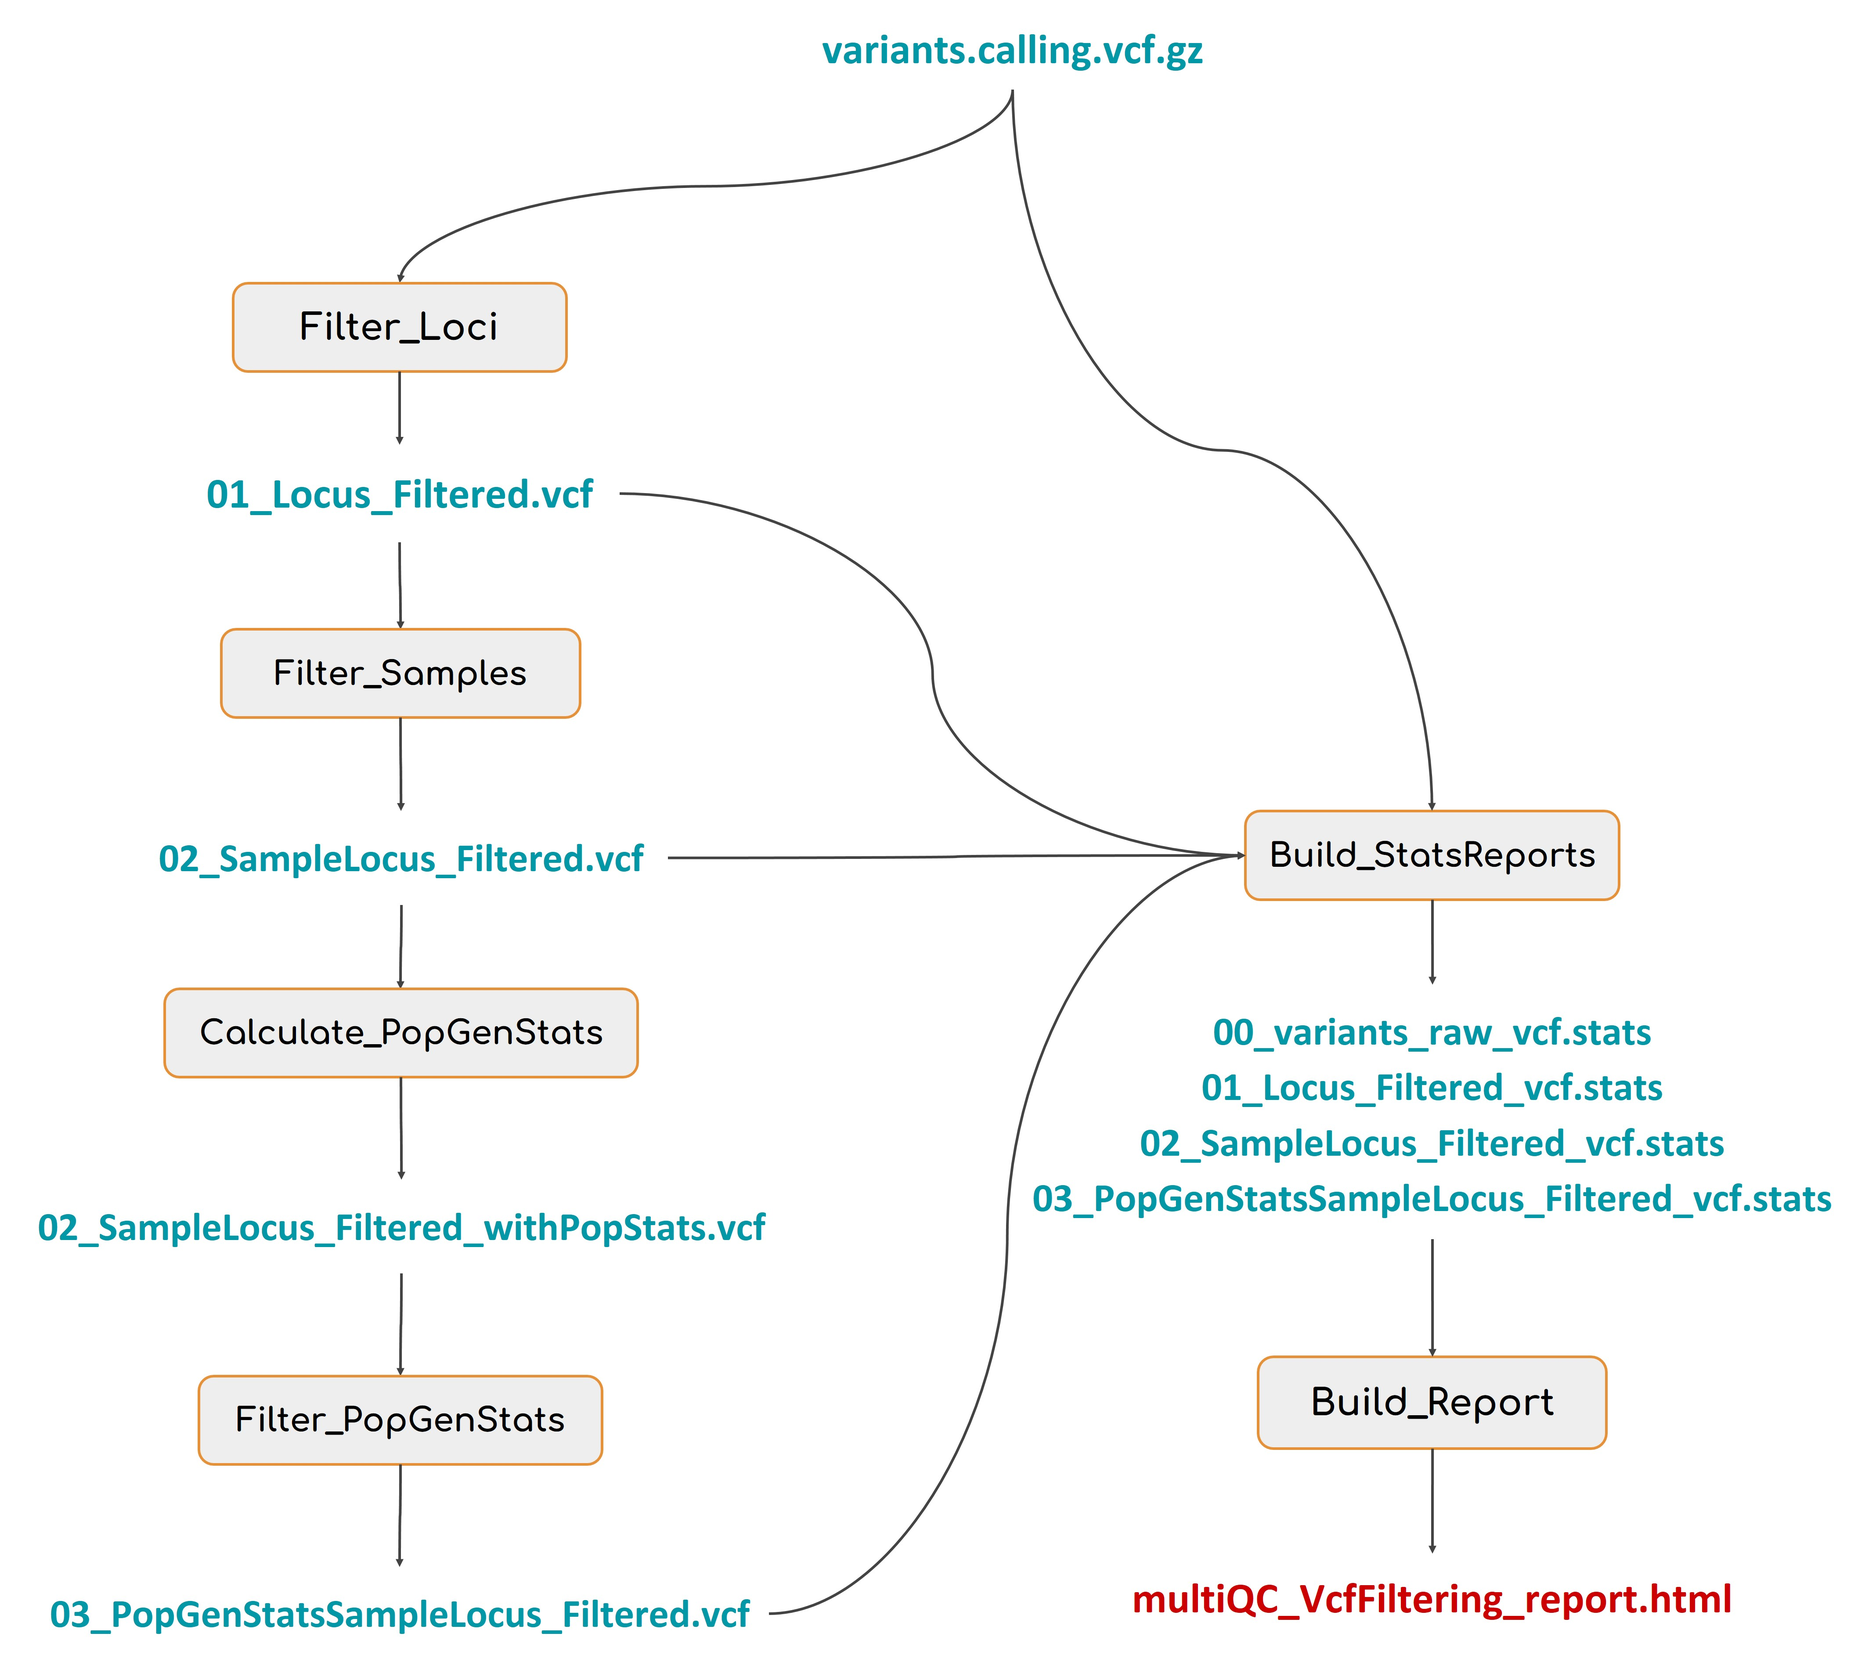
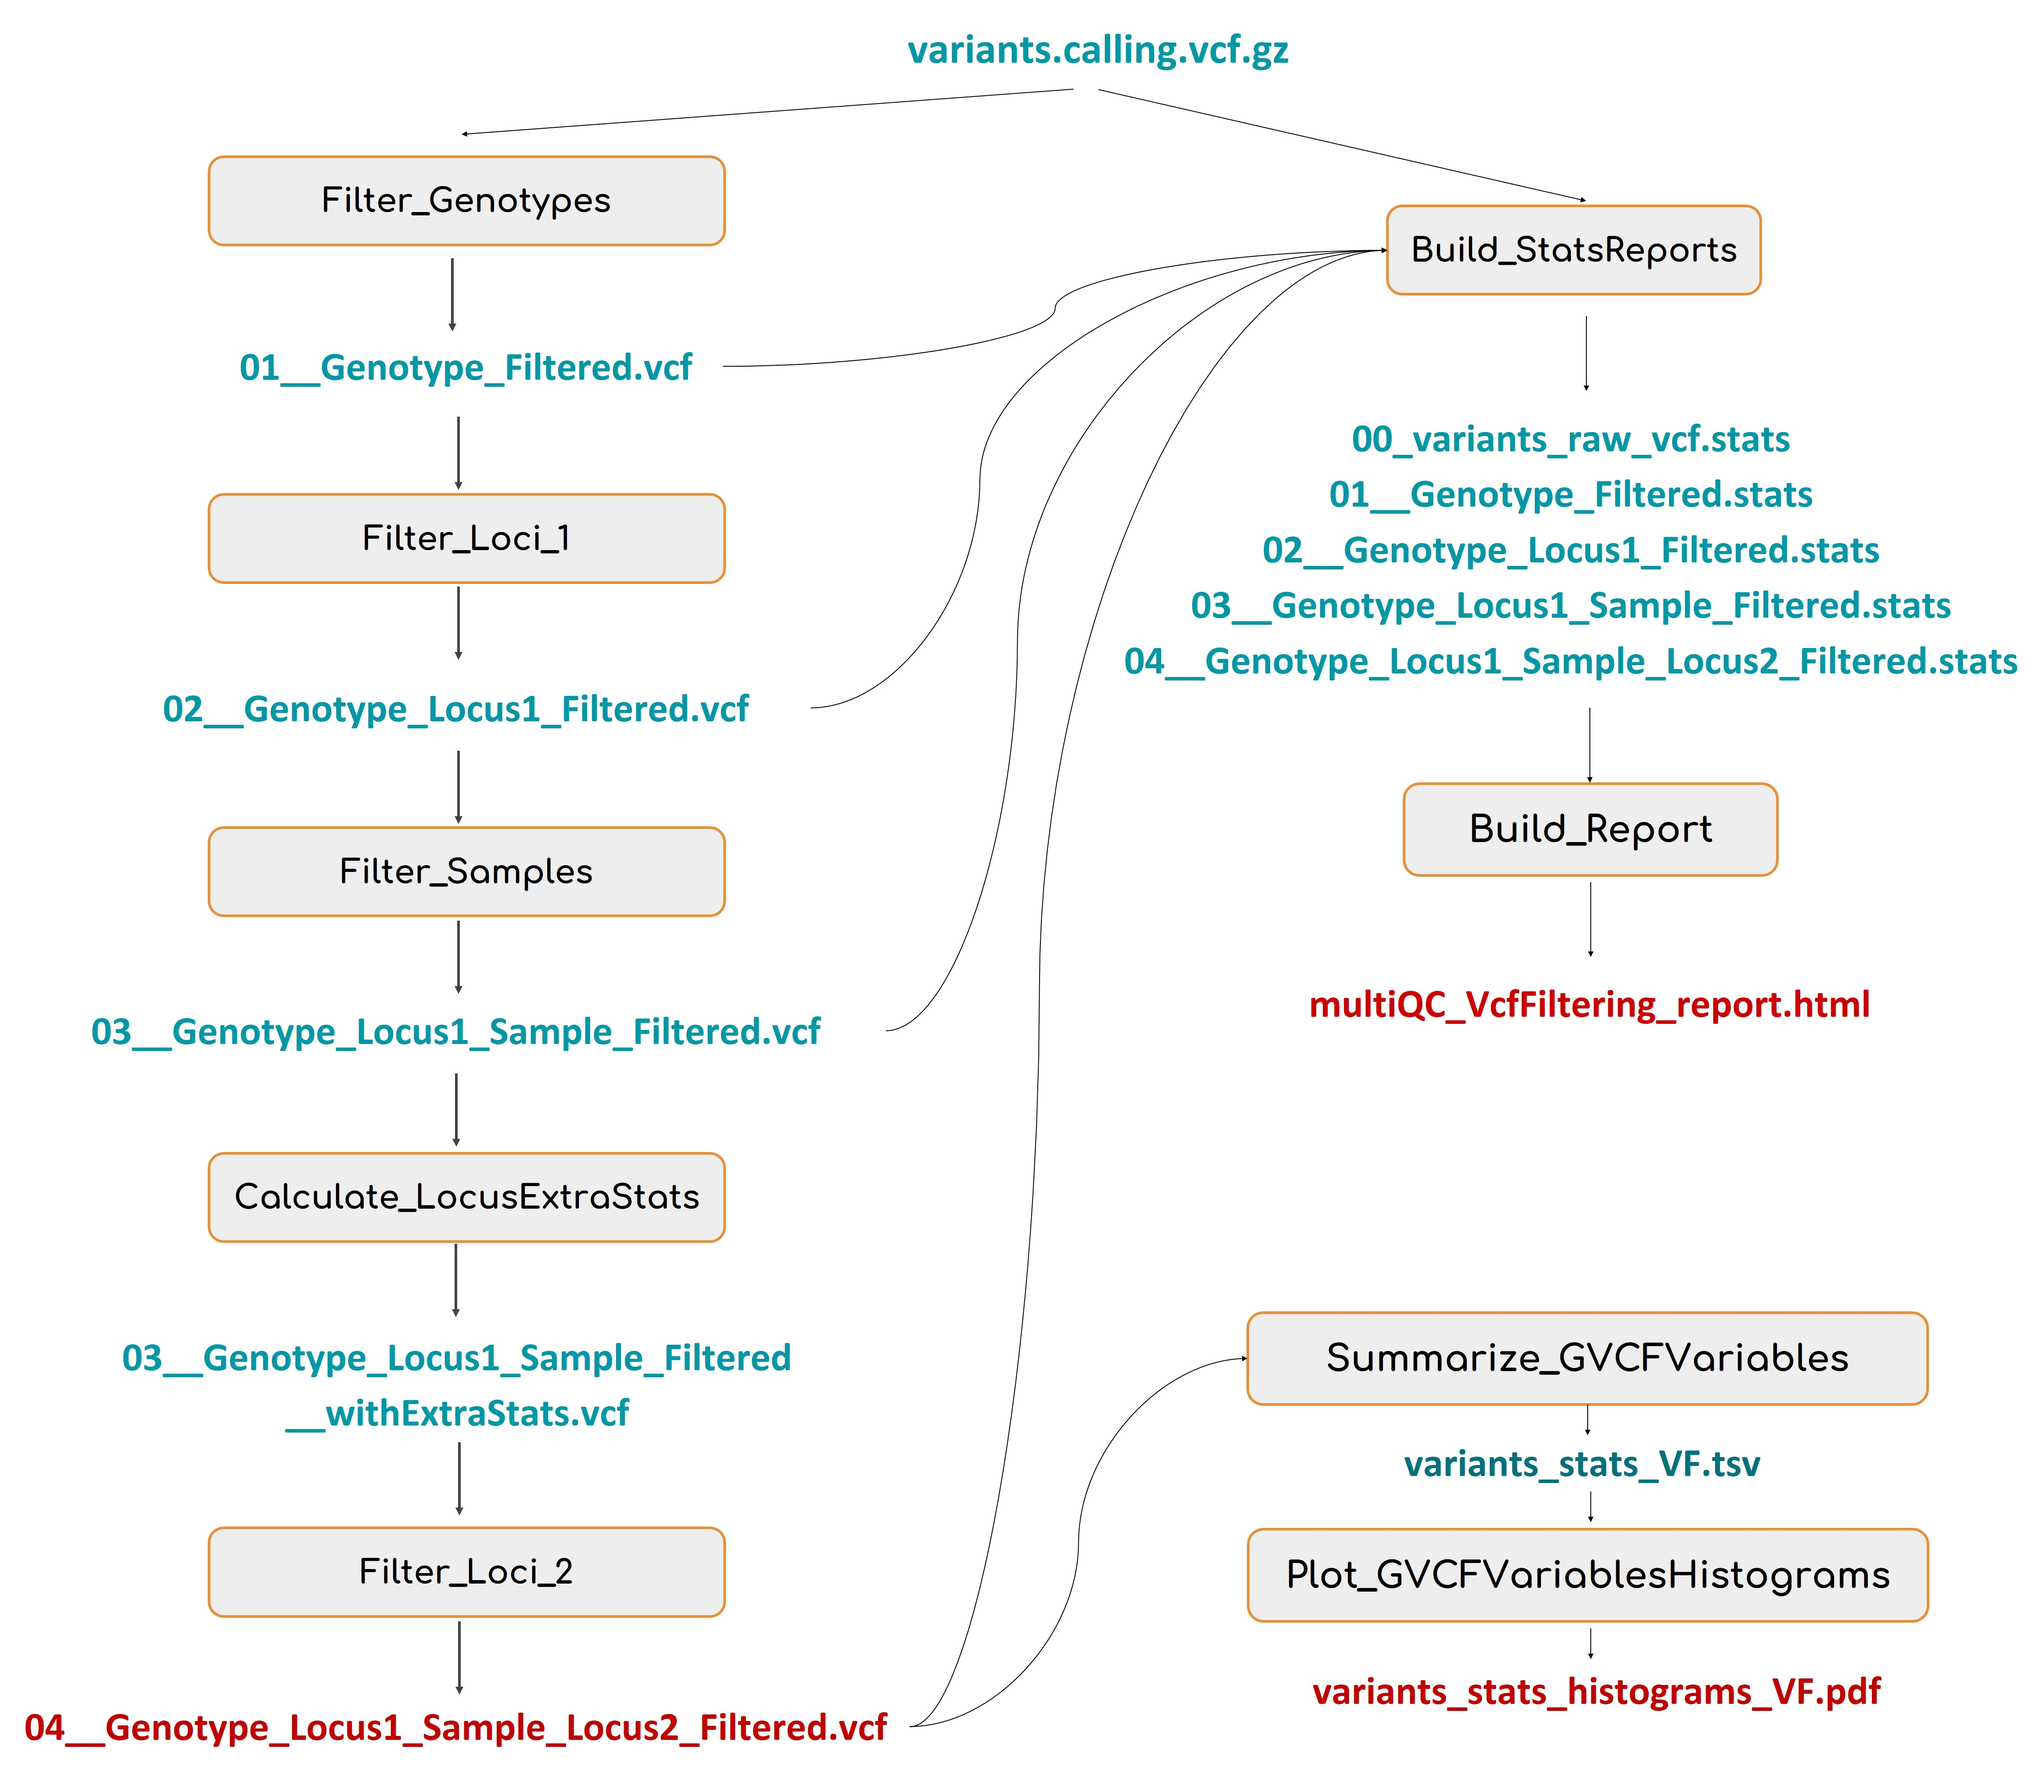
update readme VF

diff --git a/VCF_FILTERING/README.md b/VCF_FILTERING/README.md
@@ -4,12 +4,13 @@ This VCF_FILTERING workflow allows to filter the raw VCF file obtained after the
 
 
 ### The VCF_FILTERING workflow's steps
-1) The first filter applies to **genotypes**. What we call ‘genotype’ here is the single-locus genotype assigned to a sample at a given position. Genotypes that don't pass the given thresholds (e.g. FMT/GQ>=15; FMT/DP>=5) are replaced by missing data. Loci that have become monomorphic or fully ungenotyped as a result of this first step are eliminated.
+1) The first filter applies to **genotypes** (Loci x Sample). What we call ‘genotype’ here is the single-locus genotype assigned to a sample at a given position. Genotypes that don't pass the given thresholds (e.g. FMT/GQ>=15; FMT/DP>=5) are replaced by missing data. Loci that have become monomorphic or fully ungenotyped as a result of this first step are eliminated.
 2) Next, **loci** that do not pass the given thresholds (QUAL>=30; F_MISSING<=0.5) are removed. At this step, all site level statistics that are provided in GATK VCF outputs can be used to filter out unwanted loci.
 3) You can now decide to remove poorly covered **samples** if their proportion of ungenotyped loci is above a given threshold. 
 4) Additional site level statistics are then computed: general information (SNP or INDEL, number of alleles, MAF…) and population genetics statistics (Fis, He) are added to the VCF ‘INFO’ field for each variant.
 5) The statistics from step 4. (along with all other GATK stats) can be used in a second **loci** filtering step.
 6) A MultiQC report is created, showing variants information/statistics after each filtering step.
+7) Based on the variant statistics, histograms are created to estimate the quality of the variant calling after filtration
 
 
 ## QUICK START
@@ -173,19 +174,23 @@ This workflow will create a "VCF_FILTERING" directory in the "WORKFLOWS_OUTPUTS"
 
 <ins>Description of the main files:</ins>  
 
-- *01_Locus_Filtered.vcf*:&nbsp;&nbsp;&nbsp;the vcf file after filtering variants by **locus**  
-- *02_SampleLocus_Filtered.vcf*:&nbsp;&nbsp;&nbsp;the vcf file after filtering variants by **sample** 
-- *samples_to_remove.list*:&nbsp;&nbsp;&nbsp;list of samples that were deleted in step 02 (filtering by sample)
-- *02_SampleLocus_Filtered_withPopGenStats.vcf*:&nbsp;&nbsp;&nbsp;the intermediate vcf file corresponding to variants filtered after step 02 (locus + sample), with population genetics statistics (Fis, He, ...) by variants.  
-- *03_PopGenStatsSampleLocus_Filtered.vcf*:&nbsp;&nbsp;&nbsp;the vcf file after filtering variants by **population genetics statistics**  
+- *01__Genotype_Filtered.vcf*:&nbsp;&nbsp;&nbsp;the vcf file after filtering variants by **genotype**
+- *02__Genotype_Locus1_Filtered.vcf*:&nbsp;&nbsp;&nbsp;the vcf file after the first variants filtering by **locus**  
+- *03__Genotype_Locus1_Sample_Filtered.vcf*:&nbsp;&nbsp;&nbsp;the vcf file after filtering variants by **sample** 
+- *samples_to_remove.list*:&nbsp;&nbsp;&nbsp;list of samples that were deleted in step 03 (filtering by sample)
+- *03__Genotype_Locus1_Sample_Filtered__withExtraStats.vcf*:&nbsp;&nbsp;&nbsp;the intermediate vcf file corresponding to variants filtered after step 03 (genotype + locus1 + sample), with additional site level statistics (Fis, He, MAF,...) by variants.  
+- *04__Genotype_Locus1_Sample_Locus2_Filtered.vcf*:&nbsp;&nbsp;&nbsp;the vcf file after filtering variants by **locus** 
 - *workflow_info.txt*:&nbsp;&nbsp;&nbsp;File that contains the date and time of the workflow launch, the link to the Github repository and the commit ID
 
 **REPORTS directory** 
 - *00_variants_raw_vcf.stats*:&nbsp;&nbsp;&nbsp;bcftools statistics of the unfiltered vcf file 
-- *01_Locus_Filtered_vcf.stats*:&nbsp;&nbsp;&nbsp;bcftools statistics after filtering by **locus**
-- *02_SampleLocus_Filtered_vcf.stats*:&nbsp;&nbsp;&nbsp;bcftools statistics after filtering by **sample**
-- *03_PopGenStatsSampleLocus_Filtered_vcf.stats*:&nbsp;&nbsp;&nbsp;bcftools statistics after filtering by **population genetics statistics**
+- *01__Genotype_Filtered.stats*:&nbsp;&nbsp;&nbsp;bcftools statistics after filtering by **genotype**
+- *02__Genotype_Locus1_Filtered.stats*:&nbsp;&nbsp;&nbsp;bcftools statistics after the first filtering by **locus**
+- *03__Genotype_Locus1_Sample_Filtered.stats*:&nbsp;&nbsp;&nbsp;bcftools statistics after filtering by **sample**
+- *04__Genotype_Locus1_Sample_Locus2_Filtered.stats*:&nbsp;&nbsp;&nbsp;bcftools statistics after the second filtering by **locus**
 - *multiQC_VcfFiltering_report.html*:&nbsp;&nbsp;&nbsp;graphic representation of the variants informations/statistics after each filtering step
+- *variants_stats_VF.tsv*:&nbsp;&nbsp;&nbsp; file with locus statistics present filtered vcf file.
+- *variants_stats_histograms_VF.pdf*:&nbsp;&nbsp;&nbsp; pdf file with histograms baseq on locus statistics present filtered vcf file.
 
 
 ## Tools
@@ -198,14 +203,17 @@ These tools are loaded in a CONDA environment from the conda-forge and bioconda 
 ##  List of the snakefile rules
 Name, description and tools used for each of the snakemake workflow rules:
 
-| **Rule name**          | **Description**                                                                                            | **Tools**       |
-|:----------------------:|:----------------------------------------------------------------------------------------------------------:|:---------------:|
-| Filter_Loci            | Filtering variants by locus. Applied either at the genotype level (locus X sample) or at the locus level   | vcftools        |
-| Filter_Samples         | Filtering variants by sample. Removing samples that have too many loci with missing data.                  | vcftools        |
-| Calculate_PopGenStats  | Calculating population genetics statistics (e.g. FIS, He)                                                  |                 |
-| Filter_PopGenStats     | Filtering variants based on population genetics statistics (e.g. FIS, He)                                  | bcftools filter |
-| Build_StatsReport      | Building statistics reports for unfiltered variants and each filtering step                                | bcftools stats  |
-| Build_Report           | Running MultiQC on unfiltered variants and each filtering step                                             | MultiQC         |
+| **Rule name**                | **Description**                                                                           | **Tools**       |
+|:----------------------------:|:-----------------------------------------------------------------------------------------:|:---------------:|
+| Filter_Genotypes             | Filtering variants by genotype (locus X sample)                                           | bcftools filter |
+| Filter_Loci_1                | Filtering variants by locus - first step                                                  | bcftools filter |
+| Filter_Samples               | Filtering variants by sample (Removing samples that have too many loci with missing data) | bcftools        |
+| Calculate_LocusExtraStats    | Calculating additional site level statistics (e.g. FIS, He, MAF)                          | Egglib          |
+| Filter_Loci_2                | Filtering variants based on additional site level statistics (e.g. FIS, He, MAF)          | bcftools filter |
+| Build_StatsReport            | Building statistics reports for unfiltered variants and each filtering step               | bcftools stats  |
+| Build_Report                 | Running MultiQC on unfiltered variants and each filtering step                            | MultiQC         |
+| Summarize_GVCFVariables      | Recovery and summarize locus statistics                                                   |                 |
+| Plot_GVCFVariablesHistograms | Creating histograms based on locus statistics                                             |                 |
 
 
 
